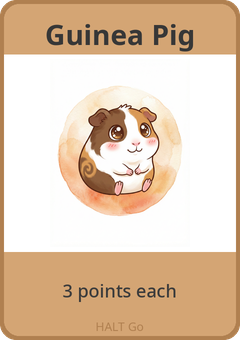
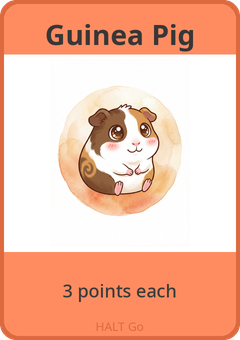
Match card colors to emoji colors, add visual emoji section to README
- Updated all 9 card colors in constants.js and generate-cards.py to match emoji circle colors
- Regenerated all Discord card images with new vibrant colors
- Added visual emoji preview images to README (inline and in table)
- Updated emoji upload instructions with correct filenames (halt_*.png)
- Emojis in assets/emojis/ now named with Discord emoji names
- Color scheme: Rat=Pink, Gerbil=Blue, Hamster=Mint, Hay=Yellow, Guinea Pig=Coral, Rabbit=Lavender, Chinchilla=Teal, Degu=Red, Cat=Green

diff --git a/src/utils/constants.js b/src/utils/constants.js
@@ -18,7 +18,7 @@ const CARD_INFO = {
     emoji: '🐀',
     customEmojiName: 'halt_rat',
     description: 'Scaling set score (1→1, 2→3, 3→6, 4→10, 5+→15)',
-    color: '#E8A0BF',
+    color: '#FF69B4',
     image: 'rat.png',
   },
   [CARD_TYPES.GERBIL]: {
@@ -26,7 +26,7 @@ const CARD_INFO = {
     emoji: '🐹',
     customEmojiName: 'halt_gerbil',
     description: 'Majority bonus: Most→+6, 2nd→+3',
-    color: '#F5D5A0',
+    color: '#5BC0EB',
     image: 'gerbil.png',
   },
   [CARD_TYPES.PREGNANT_HAMSTER]: {
@@ -34,7 +34,7 @@ const CARD_INFO = {
     emoji: '🤰',
     customEmojiName: 'halt_hamster',
     description: 'Swap this card for 2 new random cards!',
-    color: '#B8E8D0',
+    color: '#5CDB95',
     image: 'pregnant_hamster.png',
   },
   [CARD_TYPES.HAY]: {
@@ -42,7 +42,7 @@ const CARD_INFO = {
     emoji: '🌾',
     customEmojiName: 'halt_hay',
     description: 'Triples the value of next Rabbit, Guinea Pig, or Chinchilla',
-    color: '#E8E0A0',
+    color: '#FFD166',
     image: 'hay.png',
   },
   [CARD_TYPES.GUINEA_PIG]: {
@@ -50,7 +50,7 @@ const CARD_INFO = {
     emoji: '🐹',
     customEmojiName: 'halt_guineapig',
     description: '3 points each',
-    color: '#D4A574',
+    color: '#FF8C61',
     image: 'guinea_pig.png',
   },
   [CARD_TYPES.RABBIT]: {
@@ -58,7 +58,7 @@ const CARD_INFO = {
     emoji: '🐰',
     customEmojiName: 'halt_rabbit',
     description: '2 points each',
-    color: '#D4B8E8',
+    color: '#B388EB',
     image: 'rabbit.png',
   },
   [CARD_TYPES.CHINCHILLA]: {
@@ -66,7 +66,7 @@ const CARD_INFO = {
     emoji: '🐭',
     customEmojiName: 'halt_chinchilla',
     description: '1 point each',
-    color: '#C8B8D8',
+    color: '#20B2AA',
     image: 'chinchilla.png',
   },
   [CARD_TYPES.DEGUS]: {
@@ -74,7 +74,7 @@ const CARD_INFO = {
     emoji: '🐿',
     customEmojiName: 'halt_degu',
     description: 'Set of 3 = 10 points, otherwise 0',
-    color: '#C8B090',
+    color: '#E63946',
     image: 'degus.png',
   },
   [CARD_TYPES.SANCTUARY_CAT]: {
@@ -82,7 +82,7 @@ const CARD_INFO = {
     emoji: '🐱',
     customEmojiName: 'halt_cat',
     description: 'End-game: Most→+6, Least→-6',
-    color: '#F0D8A0',
+    color: '#77DD77',
     image: 'sanctuary_cat.png',
   },
 };

diff --git a/scripts/generate-cards.py b/scripts/generate-cards.py
@@ -44,64 +44,64 @@ CARDS = [
         'id': 'rat',
         'name': 'Rat',
         'scoring': '1=1  2=3  3=6\n4=10  5+=15',
-        'color': '#E8A0BF',
-        'border': '#C47A9A',
+        'color': '#FF69B4',
+        'border': '#D4508F',
     },
     {
         'id': 'gerbil',
         'name': 'Gerbil',
         'scoring': 'Most: +6 pts\n2nd most: +3 pts',
-        'color': '#F5D5A0',
-        'border': '#D4B070',
+        'color': '#5BC0EB',
+        'border': '#3A9FCA',
     },
     {
         'id': 'pregnant_hamster',
         'name': 'Pregnant Hamster',
         'scoring': 'Swap for\n2 random cards!',
-        'color': '#B8E8D0',
-        'border': '#8CC8A8',
+        'color': '#5CDB95',
+        'border': '#3CB874',
     },
     {
         'id': 'hay',
         'name': 'Hay',
         'scoring': 'Triples next\nGP / Rabbit / Chin',
-        'color': '#E8E0A0',
-        'border': '#C8C070',
+        'color': '#FFD166',
+        'border': '#DDB040',
     },
     {
         'id': 'guinea_pig',
         'name': 'Guinea Pig',
         'scoring': '3 points each',
-        'color': '#D4A574',
-        'border': '#B08050',
+        'color': '#FF8C61',
+        'border': '#DD6A3F',
     },
     {
         'id': 'rabbit',
         'name': 'Rabbit',
         'scoring': '2 points each',
-        'color': '#D4B8E8',
-        'border': '#A888C8',
+        'color': '#B388EB',
+        'border': '#9266CA',
     },
     {
         'id': 'chinchilla',
         'name': 'Chinchilla',
         'scoring': '1 point each',
-        'color': '#C8B8D8',
-        'border': '#9888B8',
+        'color': '#20B2AA',
+        'border': '#188A84',
     },
     {
         'id': 'degus',
         'name': 'Degu',
         'scoring': 'Set of 3 = 10 pts\nOtherwise 0',
-        'color': '#C8B090',
-        'border': '#A89070',
+        'color': '#E63946',
+        'border': '#C42030',
     },
     {
         'id': 'sanctuary_cat',
         'name': 'Sanctuary Cat',
         'scoring': 'End: Most +6\nLeast -6',
-        'color': '#F0D8A0',
-        'border': '#D0B870',
+        'color': '#77DD77',
+        'border': '#55BB55',
     },
 ]
 

diff --git a/README.md b/README.md
@@ -160,27 +160,43 @@ Settings dashboard running at http://localhost:3000
 
 ## Custom Discord Emojis (Optional)
 
-HALT Go includes a set of custom kawaii emoji images in `assets/emojis/` that you can upload to your Discord server for a more personalized look. When uploaded, the bot automatically detects them and uses them in place of the default Unicode emojis throughout the game.
+HALT Go includes a set of adorable custom emoji images that you can upload to your Discord server. When uploaded, the bot automatically detects them and uses them everywhere in place of the default Unicode emojis — buttons, embeds, scoring breakdowns, and more!
+
+Each emoji features the animal on a bright colored circle that matches its card color:
+
+<p align="center">
+  <img src="assets/emojis/halt_rat.png" width="64" alt="Rat" />
+  <img src="assets/emojis/halt_gerbil.png" width="64" alt="Gerbil" />
+  <img src="assets/emojis/halt_hamster.png" width="64" alt="Pregnant Hamster" />
+  <img src="assets/emojis/halt_hay.png" width="64" alt="Hay" />
+  <img src="assets/emojis/halt_guineapig.png" width="64" alt="Guinea Pig" />
+  <img src="assets/emojis/halt_rabbit.png" width="64" alt="Rabbit" />
+  <img src="assets/emojis/halt_chinchilla.png" width="64" alt="Chinchilla" />
+  <img src="assets/emojis/halt_degu.png" width="64" alt="Degu" />
+  <img src="assets/emojis/halt_cat.png" width="64" alt="Sanctuary Cat" />
+</p>
 
 ### How to Upload
 
 1. In Discord, go to **Server Settings** > **Emoji**
 2. Click **Upload Emoji**
-3. Upload each image from `assets/emojis/` and name them exactly as shown below:
+3. Upload each image from `assets/emojis/`. The filenames are already set to the correct Discord emoji names:
 
-| File | Emoji Name | Card |
-|------|------------|------|
-| `rat.png` | `halt_rat` | Rat |
-| `gerbil.png` | `halt_gerbil` | Gerbil |
-| `pregnant_hamster.png` | `halt_hamster` | Pregnant Hamster |
-| `hay.png` | `halt_hay` | Hay |
-| `guinea_pig.png` | `halt_guineapig` | Guinea Pig |
-| `rabbit.png` | `halt_rabbit` | Rabbit |
-| `chinchilla.png` | `halt_chinchilla` | Chinchilla |
-| `degus.png` | `halt_degu` | Degu |
-| `sanctuary_cat.png` | `halt_cat` | Sanctuary Cat |
+| Preview | File | Discord Name | Card | Color |
+|---------|------|--------------|------|-------|
+| <img src="assets/emojis/halt_rat.png" width="24" /> | `halt_rat.png` | `:halt_rat:` | Rat | Hot Pink |
+| <img src="assets/emojis/halt_gerbil.png" width="24" /> | `halt_gerbil.png` | `:halt_gerbil:` | Gerbil | Sky Blue |
+| <img src="assets/emojis/halt_hamster.png" width="24" /> | `halt_hamster.png` | `:halt_hamster:` | Pregnant Hamster | Mint Green |
+| <img src="assets/emojis/halt_hay.png" width="24" /> | `halt_hay.png` | `:halt_hay:` | Hay | Sunny Yellow |
+| <img src="assets/emojis/halt_guineapig.png" width="24" /> | `halt_guineapig.png` | `:halt_guineapig:` | Guinea Pig | Coral Orange |
+| <img src="assets/emojis/halt_rabbit.png" width="24" /> | `halt_rabbit.png` | `:halt_rabbit:` | Rabbit | Lavender Purple |
+| <img src="assets/emojis/halt_chinchilla.png" width="24" /> | `halt_chinchilla.png` | `:halt_chinchilla:` | Chinchilla | Teal |
+| <img src="assets/emojis/halt_degu.png" width="24" /> | `halt_degu.png` | `:halt_degu:` | Degu | Crimson Red |
+| <img src="assets/emojis/halt_cat.png" width="24" /> | `halt_cat.png` | `:halt_cat:` | Sanctuary Cat | Lime Green |
 
-The names must match exactly (they are case-sensitive). After uploading, restart the bot and it will log how many custom emojis it found. If an emoji is missing or misnamed, the bot falls back to the default Unicode emoji for that card.
+The names must match exactly (they are case-sensitive). When you upload a file named `halt_rat.png`, Discord will automatically set the emoji name to `halt_rat`.
+
+After uploading, restart the bot and you should see `Loaded 9 custom emojis from [server name]` in the console. If an emoji is missing or misnamed, the bot falls back to the default Unicode emoji for that card.
 
 ## Settings Dashboard (Optional)
 
